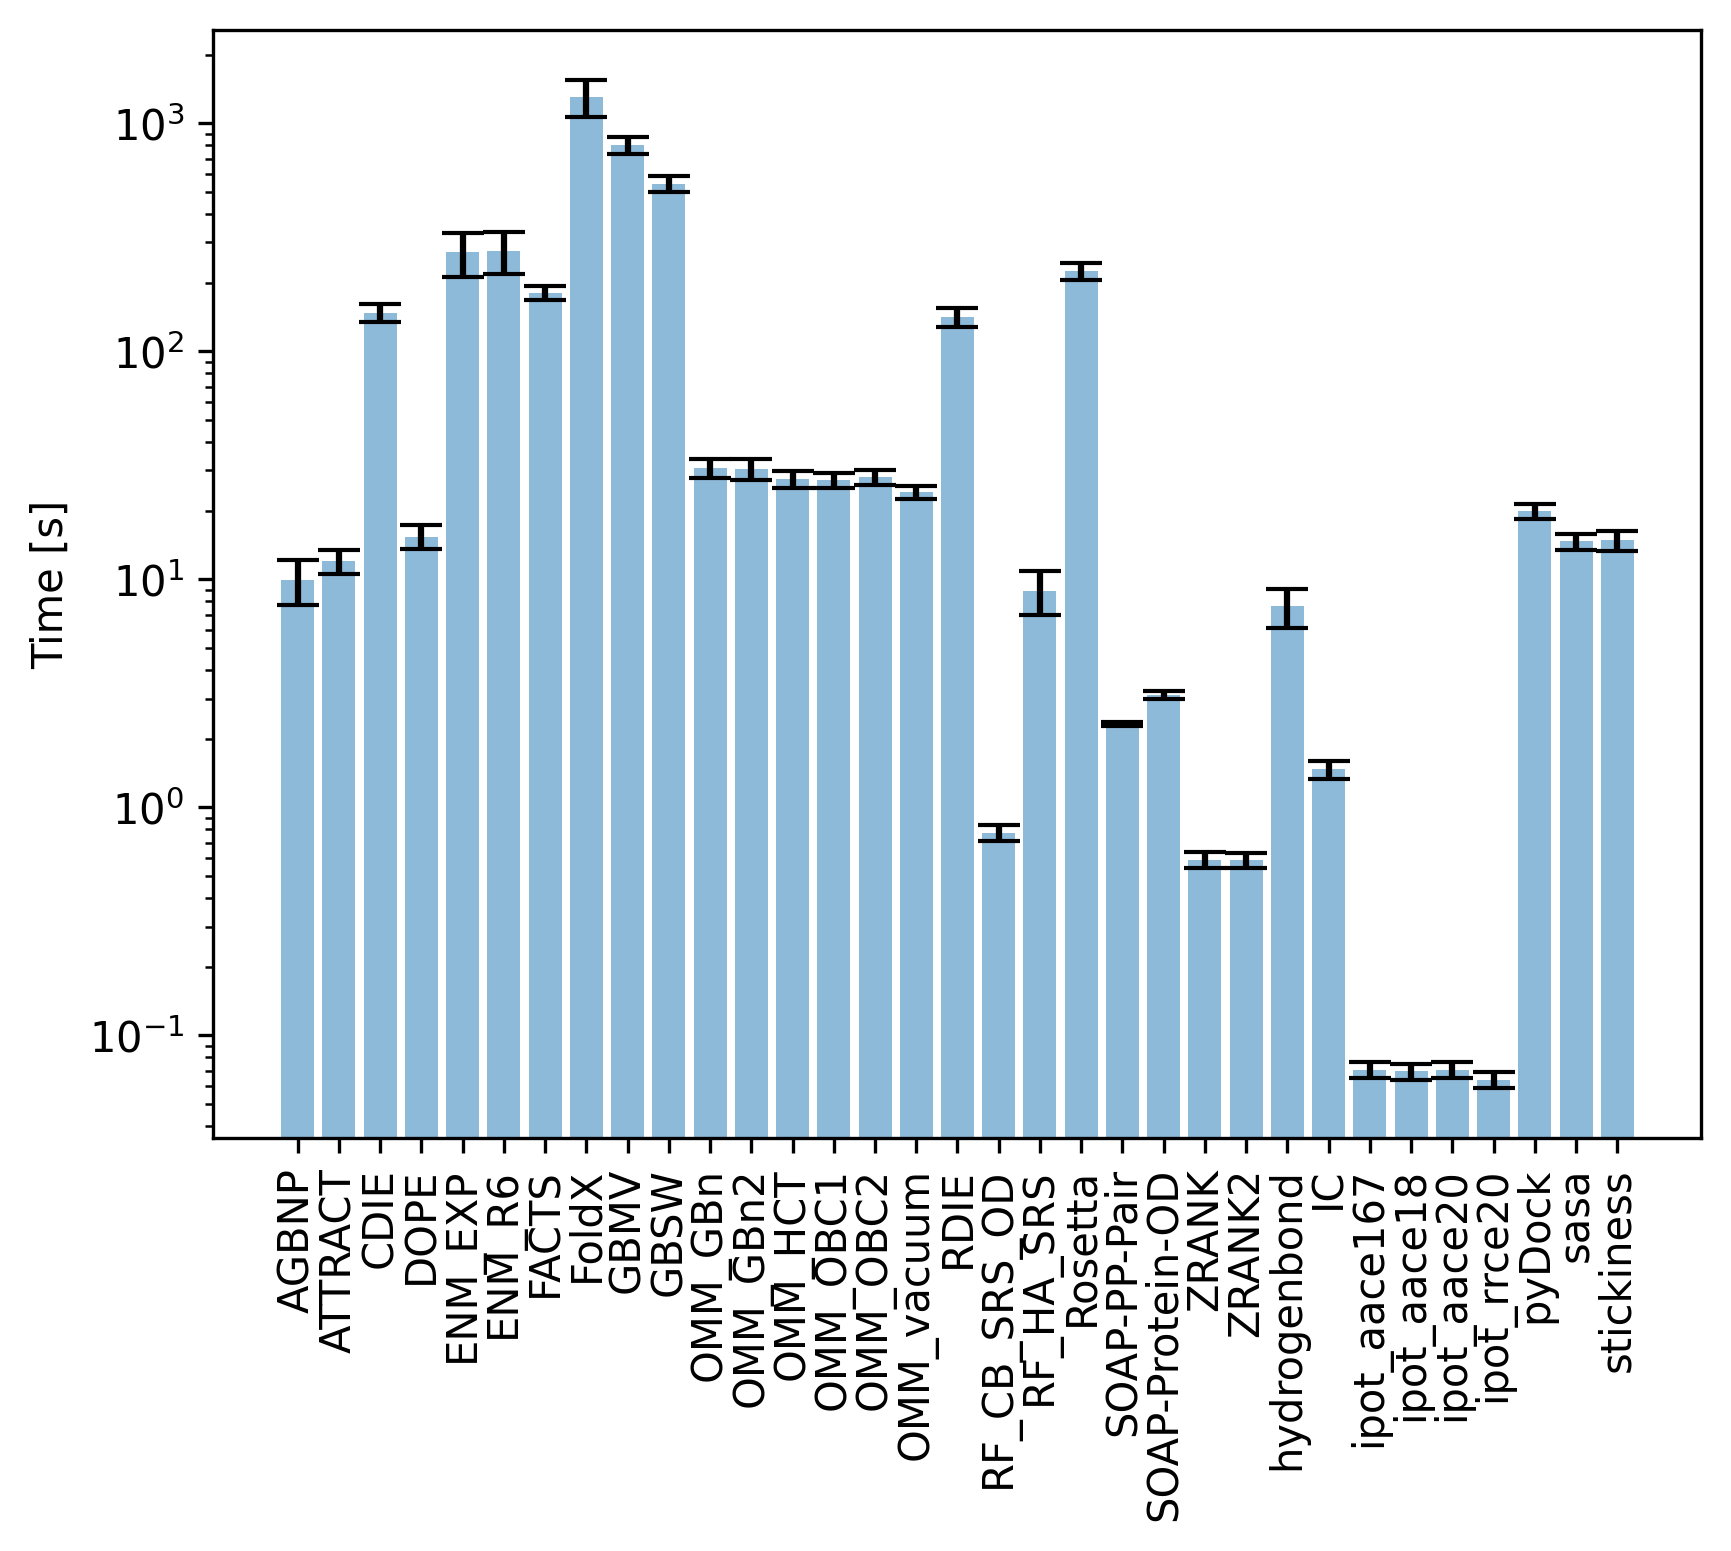
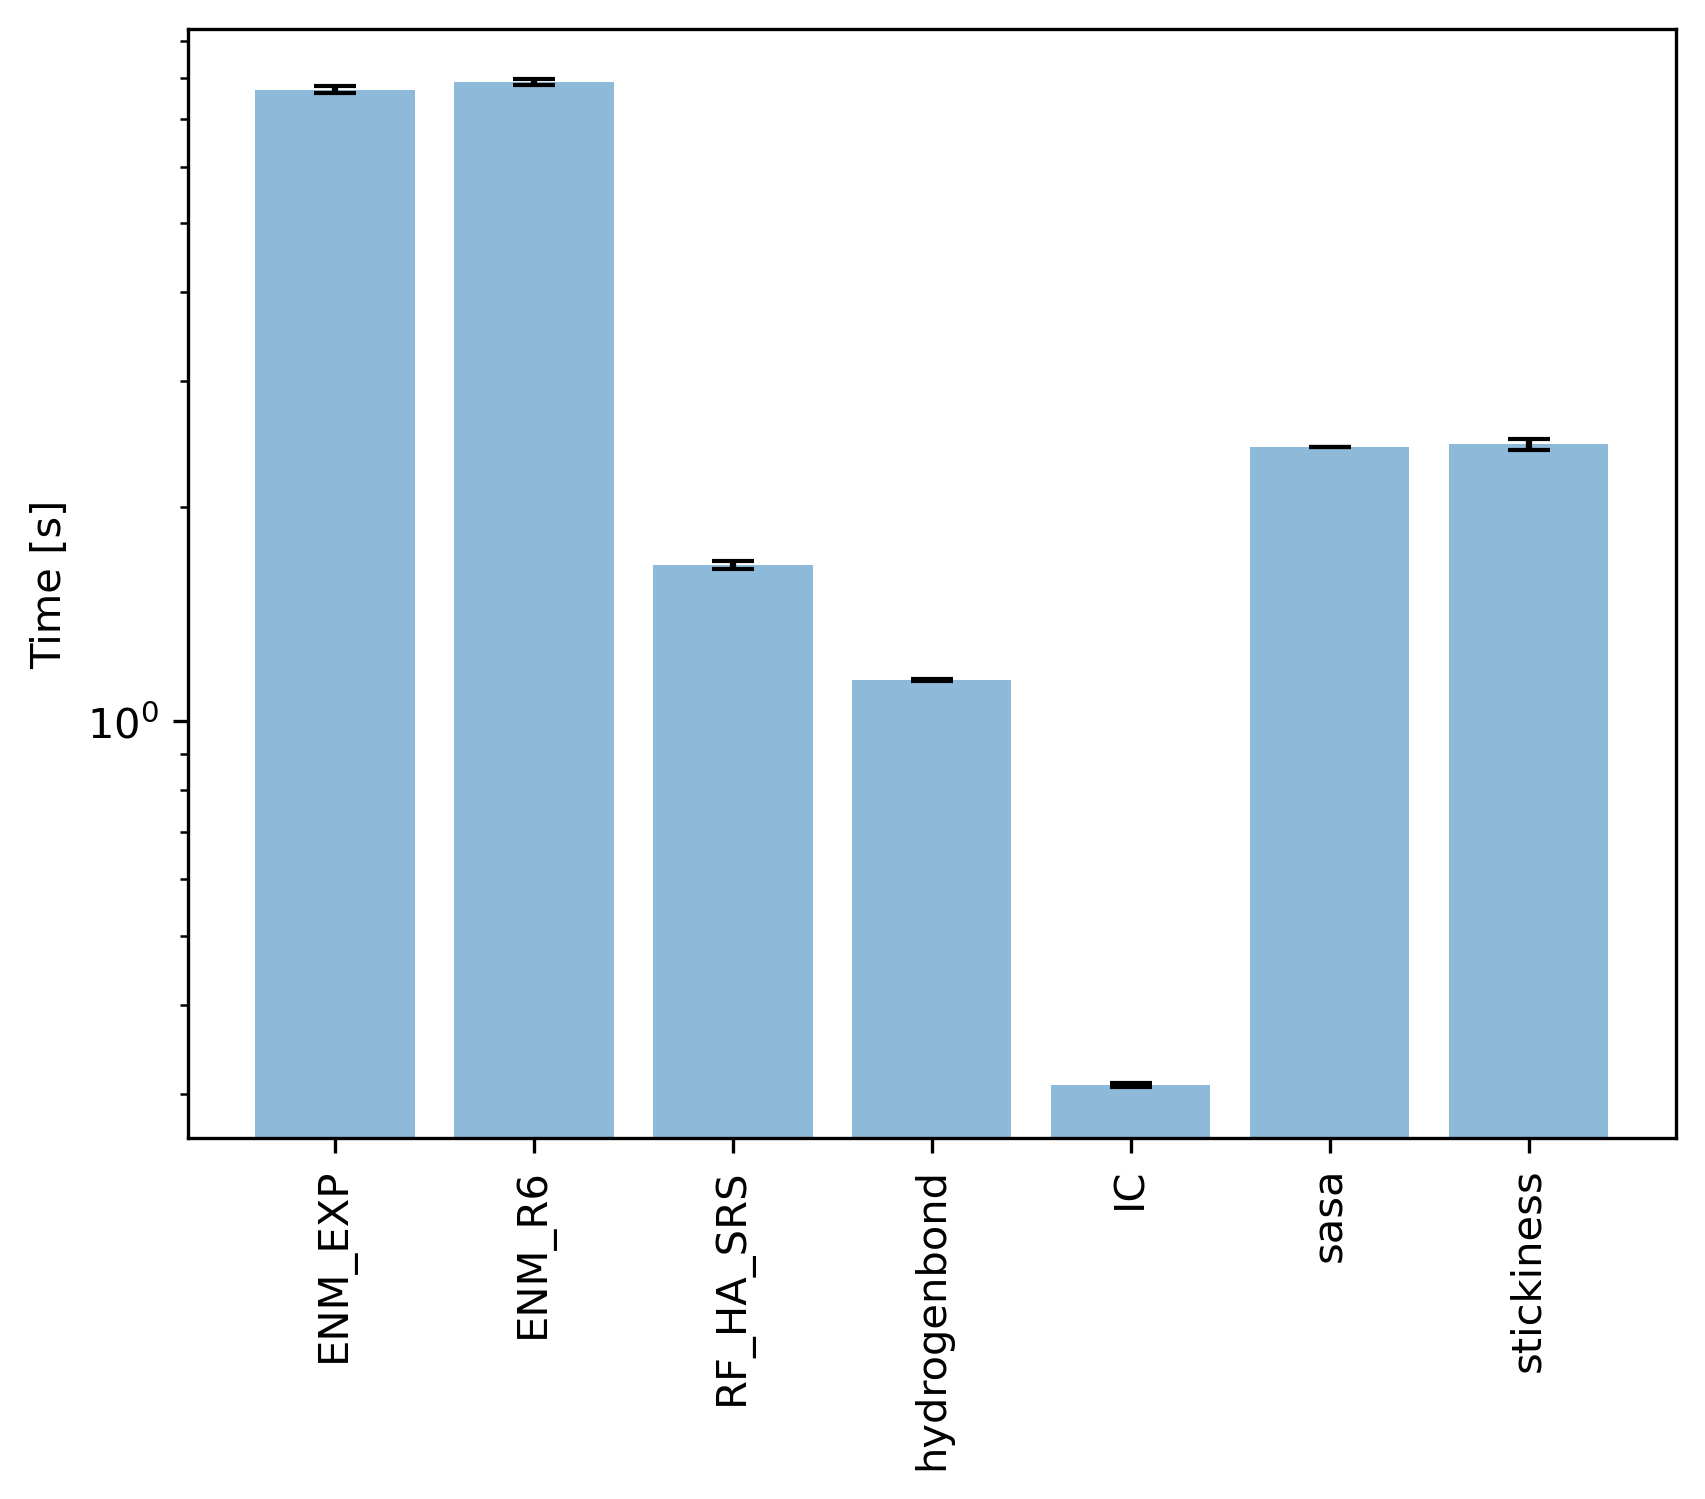
timing and fixing race condition

Changed region(s): [[0.0622, 0.0, 0.9947, 0.982], [0.0, 0.3376, 0.0622, 0.4296]]

diff --git a/ddgs-dataset-run/timing.py b/ddgs-dataset-run/timing.py
@@ -32,7 +32,7 @@ def main():
     with open('descriptors-all.json') as fp:
         data = json.load(fp)
 
-    for protocol in ['modeller_veryfast', 'modeller_fast', 'modeller_slow', 'rosetta']:
+    for protocol in ['modeller_fast']: # 'modeller_veryfast', , 'modeller_slow', 'rosetta'
         timelst = list()
         for cpx, info in data.items():
             for num, time in info[protocol]['>TIME_makemodel'].items():

diff --git a/python/ppdx/makemodel/modeller.py b/python/ppdx/makemodel/modeller.py
@@ -25,7 +25,7 @@ def modeller_generic(sequence, template, wrkdir, fast):
         if os.path.isfile(os.path.join(wrkdir, 'model.pdb')):
             return
     else:
-        os.makedirs(wrkdir)
+        os.makedirs(wrkdir, exist_ok=True)
     time_start = timer()
     log.info("Creating model %s/model.pdb..." % (wrkdir))
     basepath = os.getcwd()

diff --git a/python/ppdx/makemodel/rosetta.py b/python/ppdx/makemodel/rosetta.py
@@ -18,7 +18,7 @@ def rosetta1(target_sequence, template, wrkdir):
         if os.path.isfile(os.path.join(wrkdir, 'model.pdb')):
             return
     else:
-        os.makedirs(wrkdir)
+        os.makedirs(wrkdir, exist_ok=True)
     time_start = timer()
     log.info("Creating model %s/model.pdb..." % (wrkdir))
     basepath = os.getcwd()
